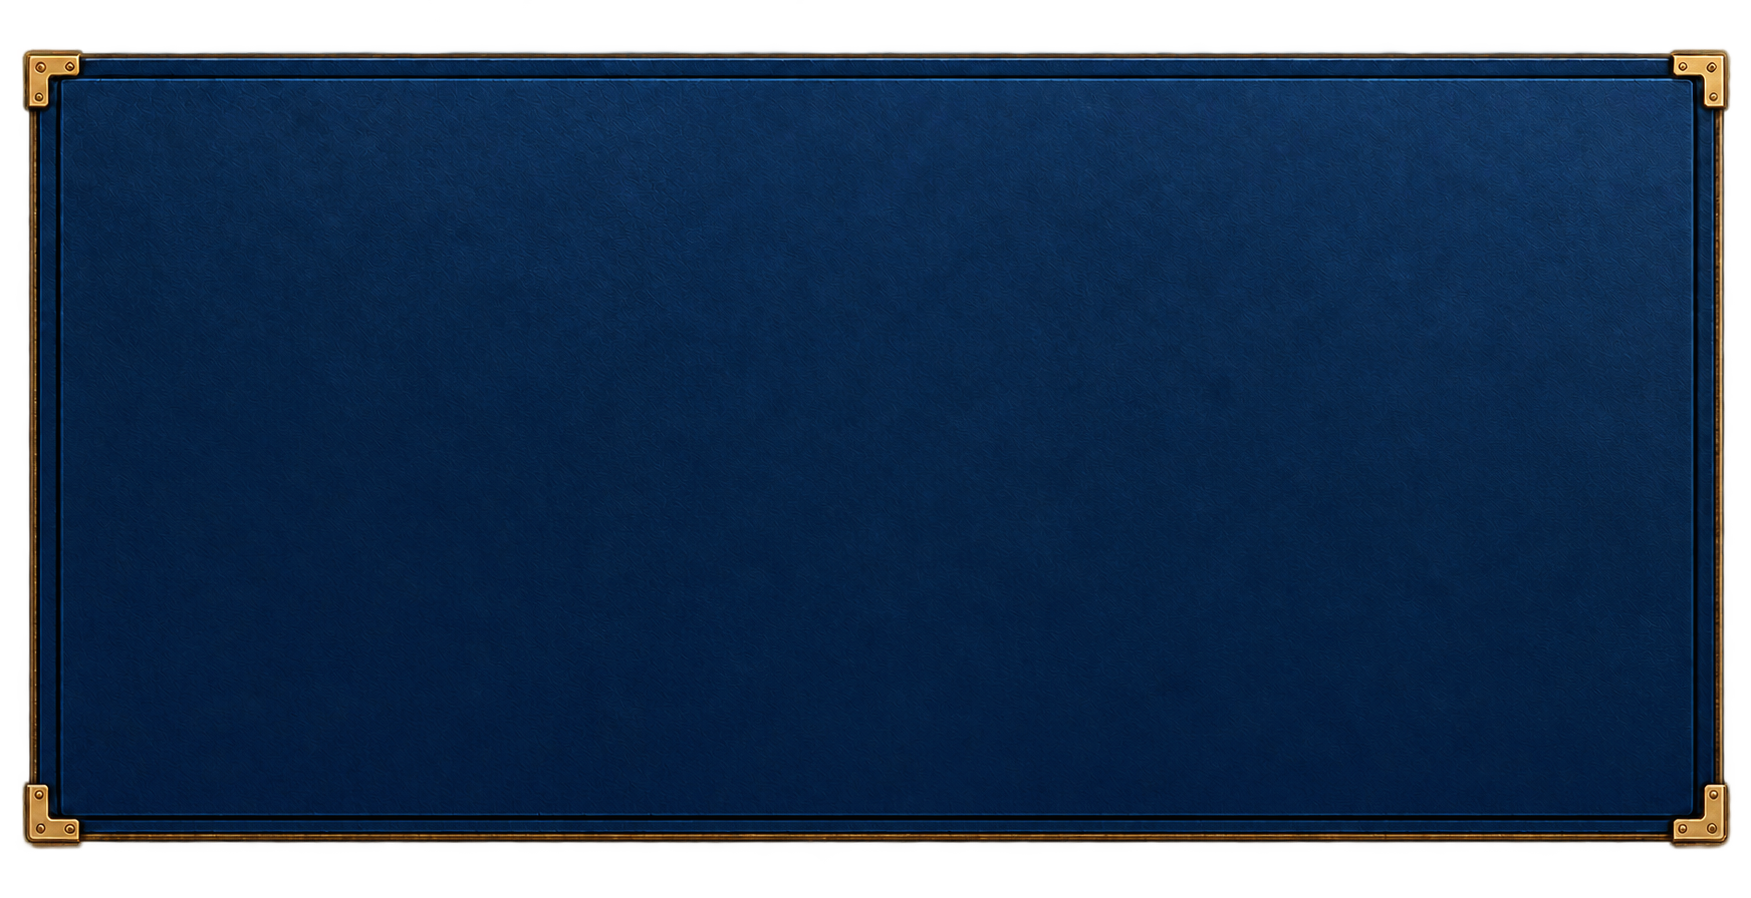
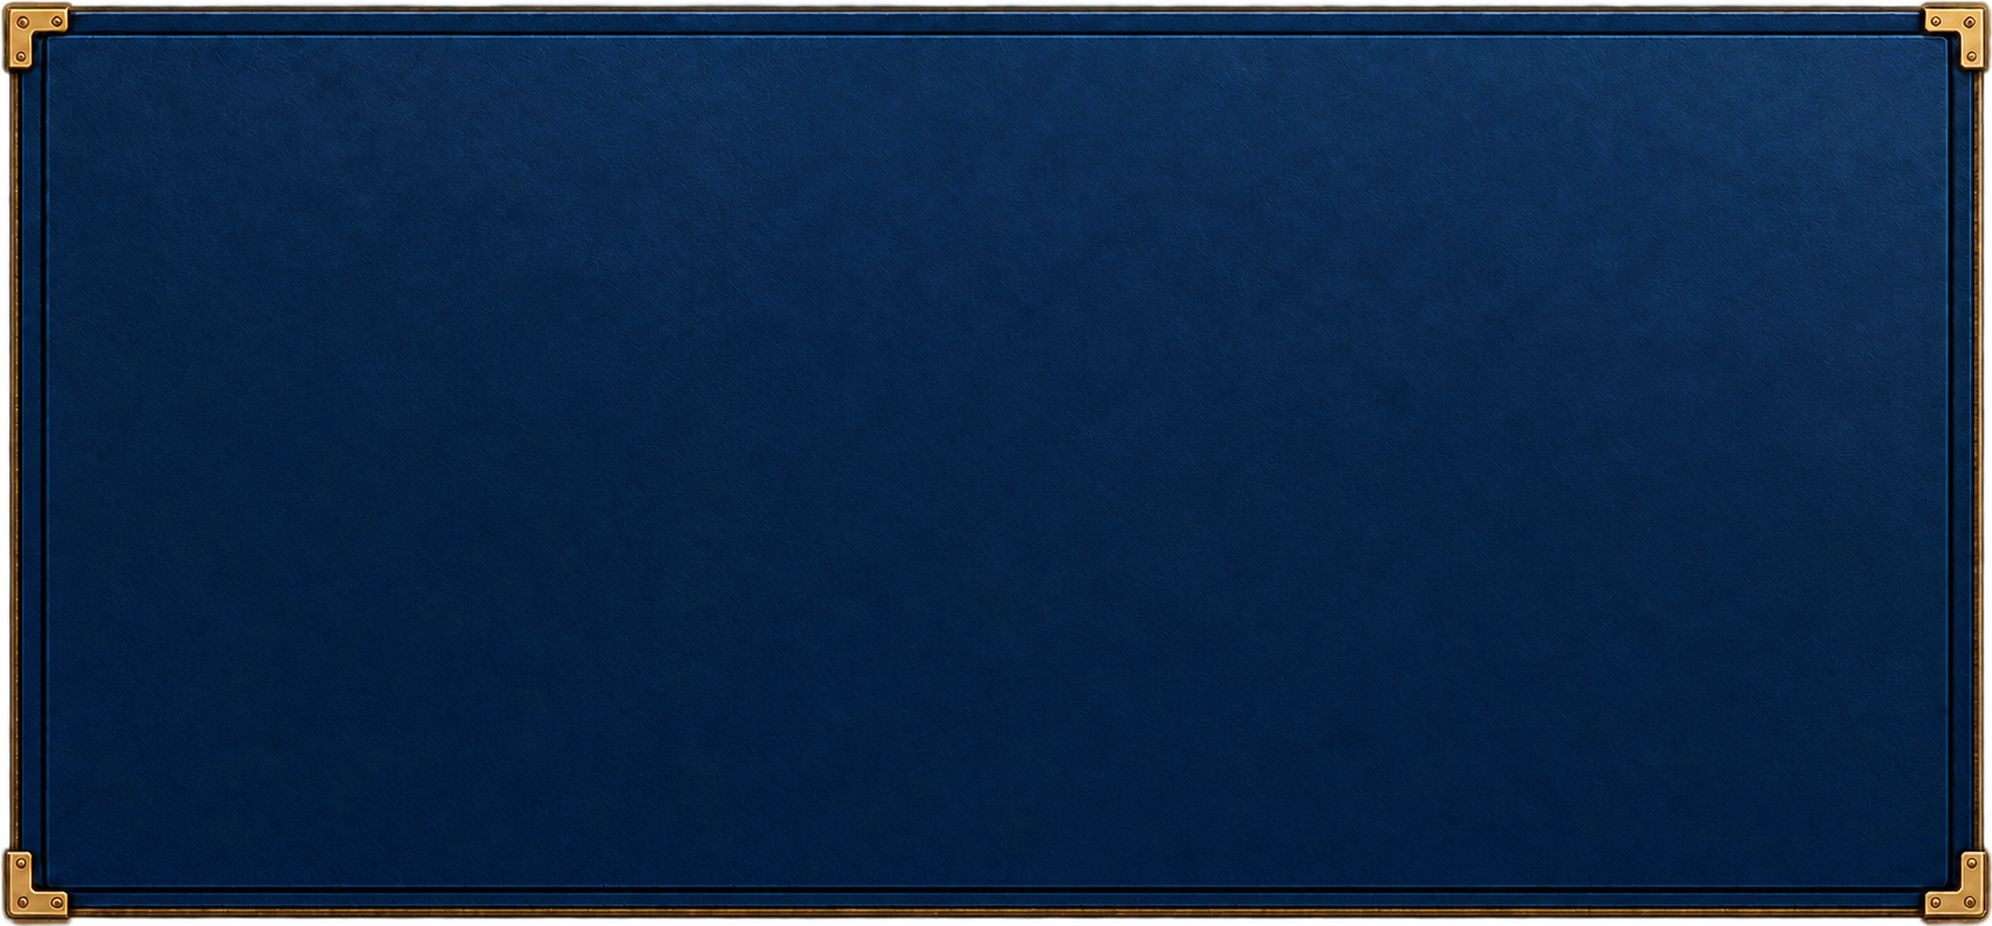
fix(workspace): align ornate notes leather frame to 1:1 match overview folio like a glove

Changed region(s): [[0.0, 0.0, 1.0, 1.0]]

diff --git a/client/src/pages/StudentWorkspace.tsx b/client/src/pages/StudentWorkspace.tsx
@@ -246,7 +246,7 @@ export default function StudentWorkspace() {
             className="relative w-full bg-transparent overflow-visible shadow-none border-0"
             style={{
               backgroundImage: activeTab === "notes"
-                ? "url('/decor/ornate-navy-leather-ui-frame.png?v=20261001-notes')"
+                ? "url('/decor/ornate-navy-leather-ui-frame.png?v=20261001-notes-perfect')"
                 : "url('/decor/student-workspace-folio-v2.png?v=20261001-rev3')",
               backgroundSize: "100% 100%",
               backgroundPosition: "center center",
